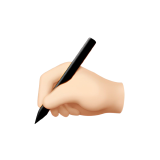
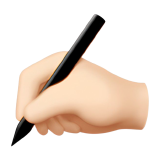
Recortar ícones do menu pro mesmo enquadramento e dar scroll na sidebar
Os ícones tinham quantidades bem diferentes de espaço vazio ao redor do
desenho na imagem original, então em caixa fixa (30px) uns apareciam bem
maiores que outros. Recorta cada um até o conteúdo real antes de
redimensionar, deixando todos com a mesma proporção de preenchimento.

Também corrige um bug visual: com mais itens de menu, a lista passava da
altura da sidebar e os últimos (E-mail, Configurações) apareciam vazando
pro fundo creme da página em vez de ficarem sobre o azul. A sidebar-nav
ganha scroll próprio (min-height:0 + overflow-y:auto), then a área azul
sempre cobre a lista inteira.

Changed region(s): [[0.0625, 0.0625, 0.9375, 0.9375]]

diff --git a/painel/index.html b/painel/index.html
@@ -12,7 +12,7 @@
 <!-- Reaproveita o CSS do painel-admin, para não duplicar o design system -->
 <link rel="stylesheet" href="../painel-admin/css/style.css?v=20260901a">
 <!-- Paleta e tipografia do site principal (index.html) -->
-<link rel="stylesheet" href="../painel-admin/css/painel-theme.css?v=20260913e">
+<link rel="stylesheet" href="../painel-admin/css/painel-theme.css?v=20260913f">
 <!-- Supabase via CDN, seguido da lógica de autenticação compartilhada -->
 <script src="https://cdn.jsdelivr.net/npm/@supabase/supabase-js@2"></script>
 <script src="../painel-admin/js/auth.js?v=20260901c"></script>
@@ -40,67 +40,67 @@
 
       <nav class="sidebar-nav">
         <button class="nav-item active" data-tab="overview" type="button">
-          <img class="nav-icon-img" src="../painel-admin/img/nav-icones/dashboard.png?v=2" alt="">
+          <img class="nav-icon-img" src="../painel-admin/img/nav-icones/dashboard.png?v=3" alt="">
           <span data-i18n="nav_dashboard">Dashboard</span>
         </button>
 
         <div class="nav-group-label" data-i18n="nav_grupo_rotina">Rotina</div>
         <button class="nav-item" data-tab="calendario" type="button">
-          <img class="nav-icon-img" src="../painel-admin/img/nav-icones/calendario.png?v=2" alt="">
+          <img class="nav-icon-img" src="../painel-admin/img/nav-icones/calendario.png?v=3" alt="">
           <span data-i18n="nav_calendario">Calendário</span>
         </button>
 
         <div class="nav-group-label" data-i18n="nav_grupo_fontes_renda">Minhas fontes de renda</div>
         <button class="nav-item" data-tab="ugc" type="button">
-          <img class="nav-icon-img" src="../painel-admin/img/nav-icones/ugc.png?v=2" alt="">
+          <img class="nav-icon-img" src="../painel-admin/img/nav-icones/ugc.png?v=3" alt="">
           <span data-i18n="nav_ugc">UGC/Publicidade</span>
         </button>
         <button class="nav-item" data-tab="afiliacao" type="button">
-          <img class="nav-icon-img" src="../painel-admin/img/nav-icones/afiliacao.png" alt="">
+          <img class="nav-icon-img" src="../painel-admin/img/nav-icones/afiliacao.png?v=2" alt="">
           <span data-i18n="nav_afiliacao">Afiliação</span>
         </button>
         <button class="nav-item" data-tab="clientes" type="button">
-          <img class="nav-icon-img" src="../painel-admin/img/nav-icones/clientes.png?v=3" alt="">
+          <img class="nav-icon-img" src="../painel-admin/img/nav-icones/clientes.png?v=4" alt="">
           <span data-i18n="nav_clientes">Clientes</span>
         </button>
         <button class="nav-item" data-tab="produtos-digitais" type="button">
-          <img class="nav-icon-img" src="../painel-admin/img/nav-icones/produtos-digitais.png" alt="">
+          <img class="nav-icon-img" src="../painel-admin/img/nav-icones/produtos-digitais.png?v=2" alt="">
           <span data-i18n="nav_produtos_digitais">Produtos Digitais</span>
         </button>
 
         <div class="nav-group-label" data-i18n="nav_grupo_criacao">Criação de Conteúdo</div>
         <button class="nav-item" data-tab="planejador" type="button">
-          <img class="nav-icon-img" src="../painel-admin/img/nav-icones/planejador.png?v=2" alt="">
+          <img class="nav-icon-img" src="../painel-admin/img/nav-icones/planejador.png?v=3" alt="">
           <span data-i18n="nav_planejador">Planejador</span>
         </button>
         <button class="nav-item" data-tab="radar" type="button">
-          <img class="nav-icon-img" src="../painel-admin/img/nav-icones/radar.png?v=2" alt="">
+          <img class="nav-icon-img" src="../painel-admin/img/nav-icones/radar.png?v=3" alt="">
           <span data-i18n="nav_radar">Radar de Notícias</span>
         </button>
         <button class="nav-item" data-tab="portfolio" type="button">
-          <img class="nav-icon-img" src="../painel-admin/img/nav-icones/portfolio.png?v=2" alt="">
+          <img class="nav-icon-img" src="../painel-admin/img/nav-icones/portfolio.png?v=3" alt="">
           <span data-i18n="nav_portfolio">Portfólio</span>
         </button>
         <button class="nav-item" data-tab="instagram" type="button">
-          <img class="nav-icon-img" src="../painel-admin/img/nav-icones/instagram.png?v=2" alt="">
+          <img class="nav-icon-img" src="../painel-admin/img/nav-icones/instagram.png?v=3" alt="">
           <span data-i18n="nav_instagram">Instagram</span>
         </button>
 
         <div class="nav-group-label" data-i18n="nav_grupo_gestao">Gestão</div>
         <button class="nav-item" data-tab="financeiro" type="button">
-          <img class="nav-icon-img" src="../painel-admin/img/nav-icones/financeiro.png" alt="">
+          <img class="nav-icon-img" src="../painel-admin/img/nav-icones/financeiro.png?v=2" alt="">
           <span data-i18n="nav_financeiro">Financeiro</span>
         </button>
         <button class="nav-item" data-tab="metas" type="button">
-          <img class="nav-icon-img" src="../painel-admin/img/nav-icones/metas.png" alt="">
+          <img class="nav-icon-img" src="../painel-admin/img/nav-icones/metas.png?v=2" alt="">
           <span data-i18n="nav_metas">Metas</span>
         </button>
         <button class="nav-item" data-tab="email" type="button">
-          <img class="nav-icon-img" src="../painel-admin/img/nav-icones/email.png?v=2" alt="">
+          <img class="nav-icon-img" src="../painel-admin/img/nav-icones/email.png?v=3" alt="">
           <span data-i18n="nav_email">E-mail</span>
         </button>
         <button class="nav-item" id="btn-abrir-configuracoes" type="button">
-          <img class="nav-icon-img" src="../painel-admin/img/nav-icones/configuracoes.png" alt="">
+          <img class="nav-icon-img" src="../painel-admin/img/nav-icones/configuracoes.png?v=2" alt="">
           <span data-i18n="nav_configuracoes">Configurações</span>
         </button>
       </nav>

diff --git a/painel-admin/painel.html b/painel-admin/painel.html
@@ -11,7 +11,7 @@
 <link href="https://fonts.googleapis.com/css2?family=Montserrat:ital,wght@0,300;0,400;0,500;0,600;0,700;0,800;1,400&family=Fraunces:ital,wght@0,600;0,700;0,900;1,600&display=swap" rel="stylesheet">
 <link rel="stylesheet" href="css/style.css?v=20260901a">
 <!-- Paleta e tipografia do site principal (index.html) -->
-<link rel="stylesheet" href="css/painel-theme.css?v=20260913e">
+<link rel="stylesheet" href="css/painel-theme.css?v=20260913f">
 <!-- Supabase via CDN, seguido da lógica de autenticação compartilhada -->
 <script src="https://cdn.jsdelivr.net/npm/@supabase/supabase-js@2"></script>
 <script src="js/auth.js?v=20260901c"></script>
@@ -39,67 +39,67 @@
 
       <nav class="sidebar-nav">
         <button class="nav-item active" data-tab="overview" type="button">
-          <img class="nav-icon-img" src="img/nav-icones/dashboard.png?v=2" alt="">
+          <img class="nav-icon-img" src="img/nav-icones/dashboard.png?v=3" alt="">
           <span data-i18n="nav_dashboard">Dashboard</span>
         </button>
 
         <div class="nav-group-label" data-i18n="nav_grupo_rotina">Rotina</div>
         <button class="nav-item" data-tab="calendario" type="button">
-          <img class="nav-icon-img" src="img/nav-icones/calendario.png?v=2" alt="">
+          <img class="nav-icon-img" src="img/nav-icones/calendario.png?v=3" alt="">
           <span data-i18n="nav_calendario">Calendário</span>
         </button>
 
         <div class="nav-group-label" data-i18n="nav_grupo_fontes_renda">Minhas fontes de renda</div>
         <button class="nav-item" data-tab="ugc" type="button">
-          <img class="nav-icon-img" src="img/nav-icones/ugc.png?v=2" alt="">
+          <img class="nav-icon-img" src="img/nav-icones/ugc.png?v=3" alt="">
           <span data-i18n="nav_ugc">UGC/Publicidade</span>
         </button>
         <button class="nav-item" data-tab="afiliacao" type="button">
-          <img class="nav-icon-img" src="img/nav-icones/afiliacao.png" alt="">
+          <img class="nav-icon-img" src="img/nav-icones/afiliacao.png?v=2" alt="">
           <span data-i18n="nav_afiliacao">Afiliação</span>
         </button>
         <button class="nav-item" data-tab="clientes" type="button">
-          <img class="nav-icon-img" src="img/nav-icones/clientes.png?v=3" alt="">
+          <img class="nav-icon-img" src="img/nav-icones/clientes.png?v=4" alt="">
           <span data-i18n="nav_clientes">Clientes</span>
         </button>
         <button class="nav-item" data-tab="produtos-digitais" type="button">
-          <img class="nav-icon-img" src="img/nav-icones/produtos-digitais.png" alt="">
+          <img class="nav-icon-img" src="img/nav-icones/produtos-digitais.png?v=2" alt="">
           <span data-i18n="nav_produtos_digitais">Produtos Digitais</span>
         </button>
 
         <div class="nav-group-label" data-i18n="nav_grupo_criacao">Criação de Conteúdo</div>
         <button class="nav-item" data-tab="planejador" type="button">
-          <img class="nav-icon-img" src="img/nav-icones/planejador.png?v=2" alt="">
+          <img class="nav-icon-img" src="img/nav-icones/planejador.png?v=3" alt="">
           <span data-i18n="nav_planejador">Planejador</span>
         </button>
         <button class="nav-item" data-tab="radar" type="button">
-          <img class="nav-icon-img" src="img/nav-icones/radar.png?v=2" alt="">
+          <img class="nav-icon-img" src="img/nav-icones/radar.png?v=3" alt="">
           <span data-i18n="nav_radar">Radar de Notícias</span>
         </button>
         <button class="nav-item" data-tab="portfolio" type="button">
-          <img class="nav-icon-img" src="img/nav-icones/portfolio.png?v=2" alt="">
+          <img class="nav-icon-img" src="img/nav-icones/portfolio.png?v=3" alt="">
           <span data-i18n="nav_portfolio">Portfólio</span>
         </button>
         <button class="nav-item" data-tab="instagram" type="button">
-          <img class="nav-icon-img" src="img/nav-icones/instagram.png?v=2" alt="">
+          <img class="nav-icon-img" src="img/nav-icones/instagram.png?v=3" alt="">
           <span data-i18n="nav_instagram">Instagram</span>
         </button>
 
         <div class="nav-group-label" data-i18n="nav_grupo_gestao">Gestão</div>
         <button class="nav-item" data-tab="financeiro" type="button">
-          <img class="nav-icon-img" src="img/nav-icones/financeiro.png" alt="">
+          <img class="nav-icon-img" src="img/nav-icones/financeiro.png?v=2" alt="">
           <span data-i18n="nav_financeiro">Financeiro</span>
         </button>
         <button class="nav-item" data-tab="metas" type="button">
-          <img class="nav-icon-img" src="img/nav-icones/metas.png" alt="">
+          <img class="nav-icon-img" src="img/nav-icones/metas.png?v=2" alt="">
           <span data-i18n="nav_metas">Metas</span>
         </button>
         <button class="nav-item" data-tab="email" type="button">
-          <img class="nav-icon-img" src="img/nav-icones/email.png?v=2" alt="">
+          <img class="nav-icon-img" src="img/nav-icones/email.png?v=3" alt="">
           <span data-i18n="nav_email">E-mail</span>
         </button>
         <button class="nav-item" id="btn-abrir-configuracoes" type="button">
-          <img class="nav-icon-img" src="img/nav-icones/configuracoes.png" alt="">
+          <img class="nav-icon-img" src="img/nav-icones/configuracoes.png?v=2" alt="">
           <span data-i18n="nav_configuracoes">Configurações</span>
         </button>
       </nav>

diff --git a/painel-admin/css/painel-theme.css b/painel-admin/css/painel-theme.css
@@ -116,6 +116,31 @@
   border-right: none;
 }
 
+/* Com mais itens de menu (grupos + ícones maiores), a lista pode passar da
+   altura da sidebar — sem scroll próprio, o final do menu (E-mail,
+   Configurações) vazava pra fora da caixa azul e aparecia sobre o fundo
+   creme da página. min-height:0 é o que permite um filho flex realmente
+   encolher/rolar em vez de estourar o pai (senão overflow-y não faz nada). */
+.painel-body .sidebar-nav {
+  min-height: 0;
+  overflow-y: auto;
+  scrollbar-width: thin;
+  scrollbar-color: rgba(255, 255, 255, 0.35) transparent;
+}
+
+.painel-body .sidebar-nav::-webkit-scrollbar {
+  width: 6px;
+}
+
+.painel-body .sidebar-nav::-webkit-scrollbar-thumb {
+  background: rgba(255, 255, 255, 0.35);
+  border-radius: 3px;
+}
+
+.painel-body .sidebar-nav::-webkit-scrollbar-track {
+  background: transparent;
+}
+
 .painel-body .sidebar-logo {
   color: #f1f1f1;
 }
